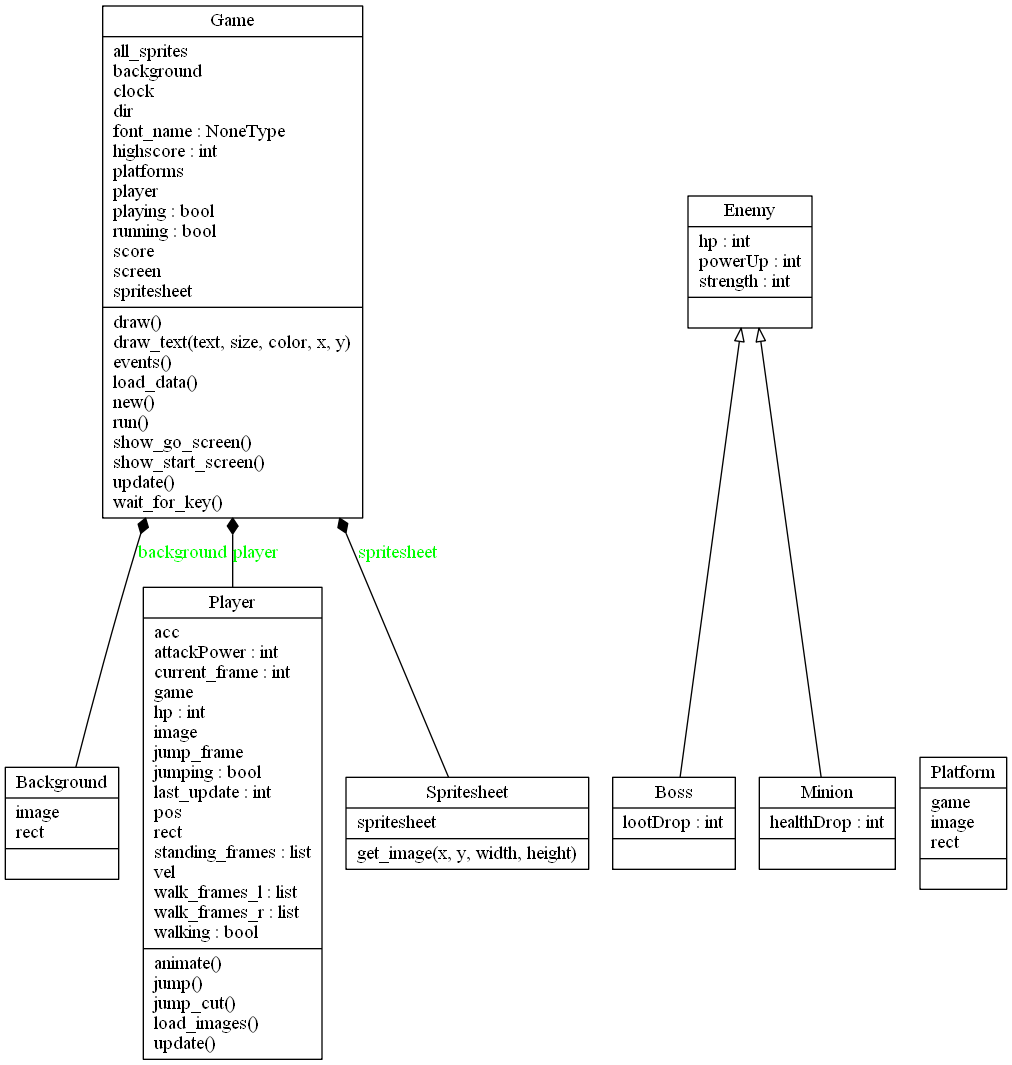
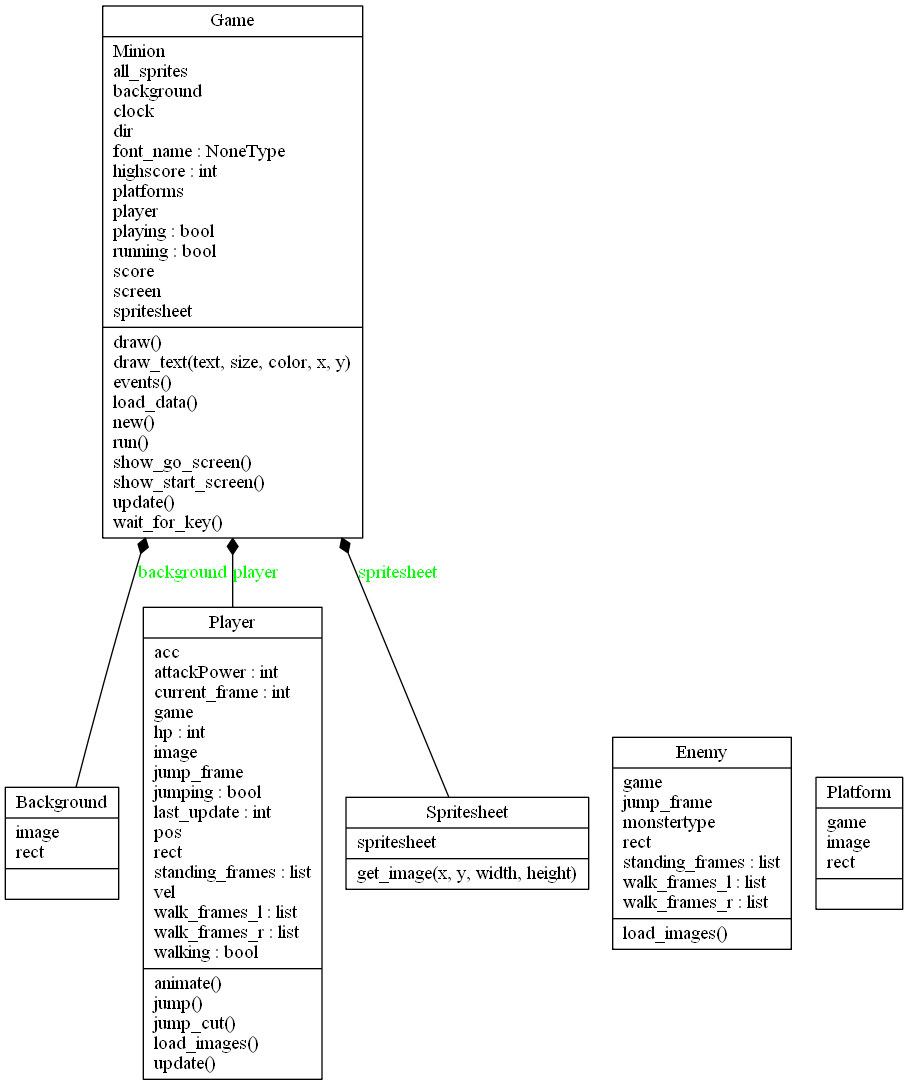
Refactored Enemy class
Changed boss/minion classes into just an enemy class for now. We can try and split them back up later

diff --git a/sprites.py b/sprites.py
@@ -1,7 +1,7 @@
 # Sprite classes for platform game
 import pygame as pg
 from settings import *
-from random import choice
+from random import *
 from abc import ABC, abstractmethod
 vec = pg.math.Vector2
 
@@ -34,6 +34,7 @@ class Player(pg.sprite.Sprite):
         self.acc = vec(0, 0)
         self.hp = 5
         self.attackPower = 6
+        self.isdead = False
 
     def load_images(self):
         self.standing_frames = [self.game.spritesheet.get_image(614, 1063, 120, 191),
@@ -48,6 +49,9 @@ class Player(pg.sprite.Sprite):
             self.walk_frames_l.append(pg.transform.flip(frame, True, False))
         self.jump_frame = self.game.spritesheet.get_image(382, 763, 150, 181)
         self.jump_frame.set_colorkey(BLACK)
+        self.dead_frame = self.game.spritesheet.get_image(382, 946, 150, 174)
+        self.dead_frame.set_colorkey(BLACK)
+
 
     def jump_cut(self):
         if self.jumping:
@@ -114,8 +118,13 @@ class Player(pg.sprite.Sprite):
                 self.image = self.standing_frames[self.current_frame]
                 self.rect = self.image.get_rect()
                 self.rect.bottom = bottom
-
-
+        if self.isdead != False:
+            self.last_update = now
+            self.current_frame = self.dead_frame
+            bottom = self.rect.bottom
+            self.image = self.dead_frame
+            self.rect = self.image.get_rect()
+            self.rect.bottom = bottom
 class Platform(pg.sprite.Sprite):
     def __init__(self, game, x, y):
         pg.sprite.Sprite.__init__(self)
@@ -141,18 +150,21 @@ class Background(pg.sprite.Sprite):
         self.rect.left, self.rect.top = location
 
 
-class Enemy(ABC):
+class Enemy(pg.sprite.Sprite):
     def __init__(self):
-        self.strength = 4
-        self.powerUp = 6
-        self.hp = 5
+        pg.sprite.Sprite.__init__(self)
+        self.image = pg.Surface((30, 40))
+        self.image.fill(RED)
+        self.rect = self.image.get_rect()
+        self.rect.x = randrange(WIDTH - self.rect.width)
+        self.rect.y = randrange(-100, -40)
+        self.speedy = randrange(1, 8)
+        self.speedx = randrange(-3, 3)
 
-
-class Minion(Enemy):
-    def __init__(self):
-        self.healthDrop = 5
-
-
-class Boss(Enemy):
-    def __init__(self):
-        self.lootDrop = 5
+    def update(self):
+        self.rect.x += self.speedx
+        self.rect.y += self.speedy
+        if self.rect.top > HEIGHT + 10 or self.rect.right > WIDTH + 20:
+            self.rect.x = randrange(WIDTH - self.rect.width)
+            self.rect.y = randrange(-100, -40)
+            self.speedy = randrange(1, 8)\

diff --git a/main.py b/main.py
@@ -10,7 +10,6 @@ from os import path
 from settings import *
 
 
-
 class Game:
     def __init__(self):
         # initialize game window, etc
@@ -46,10 +45,18 @@ class Game:
         self.score = pg.time.get_ticks()
         self.all_sprites = pg.sprite.Group()
         self.platforms = pg.sprite.Group()
+        self.enemies = pg.sprite.Group()
         self.player = Player(self)
         self.all_sprites.add(self.player)
         self.score = (pg.time.get_ticks() - self.score) / 1000
 
+        # Enemies
+        for i in range(8):
+            m = Enemy()
+            self.all_sprites.add(m)
+            self.enemies.add(m)
+
+        # Platforms
         for plat in PLATFORM_LIST:
             p = Platform(self, *plat)
             self.all_sprites.add(p)
@@ -81,6 +88,12 @@ class Game:
                     self.player.vel.y = 0
                     self.player.jumping = False
 
+        # Tracking player collision with enemy sprites.
+        if pg.sprite.spritecollide(self.player, self.enemies, True):
+            self.player.isdead = True
+            #pg.time.delay(10000)
+            self.playing = False
+
         # if player reaches top 1/4 of screen
         #if self.player.rect.top <= HEIGHT / 4:
             #self.player.pos.y += max(abs(self.player.vel.y), 2)
@@ -107,7 +120,7 @@ class Game:
 #            p = Platform(self, random.randrange(0, WIDTH - width),
 #                         random.randrange(-75, -30))
 #            self.platforms.add(p)
-            self.all_sprites.add(p)
+            #self.all_sprites.add(p)
 
     def events(self):
 
@@ -162,7 +175,7 @@ class Game:
             return
         self.screen.fill(BGCOLOR)
         self.draw_text("GAME OVER", 48, WHITE, WIDTH / 2, HEIGHT / 4)
-        self.draw_text("Score: " + str(self.score), 22, WHITE, WIDTH / 2, HEIGHT / 2)
+        self.draw_text("Score: " + str(round(self.score/10000, 2)), 22, WHITE, WIDTH / 2, HEIGHT / 2)
         self.draw_text("Press a key to play again", 22, WHITE, WIDTH / 2, HEIGHT * 3 / 4)
         if self.score > self.highscore:
             self.highscore = self.score
@@ -170,7 +183,7 @@ class Game:
             with open(path.join(self.dir, HS_FILE), 'w') as f:
                 f.write(str(self.score))
         else:
-            self.draw_text("High Score: " + str(self.highscore), 22, WHITE, WIDTH / 2, HEIGHT / 2 + 40)
+            self.draw_text("High Score: " + str(round(self.highscore/10000, 2)), 22, WHITE, WIDTH / 2, HEIGHT / 2 + 40)
         pg.display.flip()
         self.wait_for_key()
 

diff --git a/settings.py b/settings.py
@@ -18,6 +18,9 @@ PLAYER_JUMP = 20
 # Starting platforms
 PLATFORM_LIST = [(0, HEIGHT - 60)]
 
+# Starting Enemies
+ENEMY_LIST = [(0, HEIGHT - 60, 5)]
+
 # define colors
 WHITE = (255, 255, 255)
 BLACK = (0, 0, 0)
